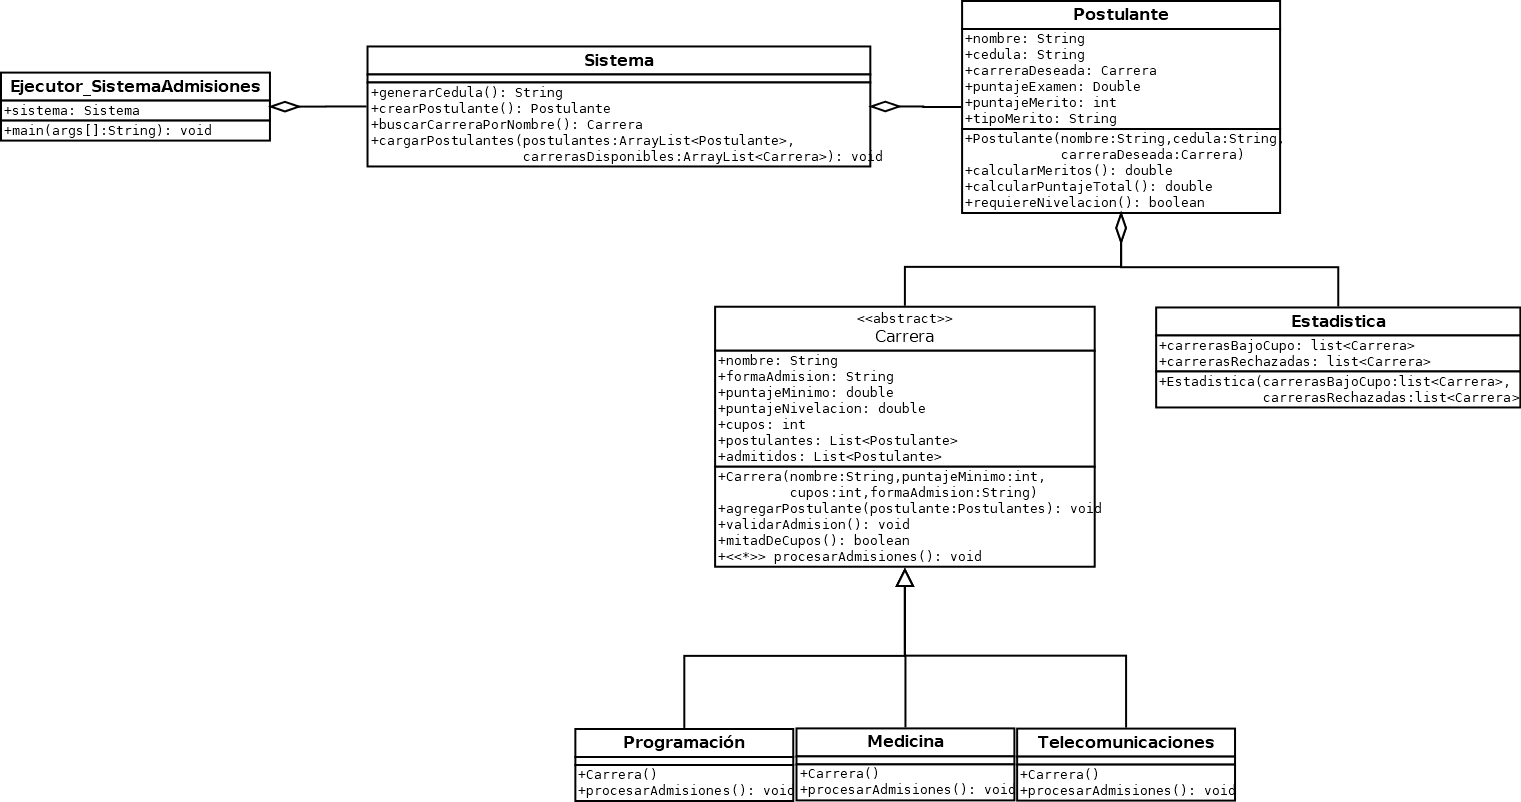
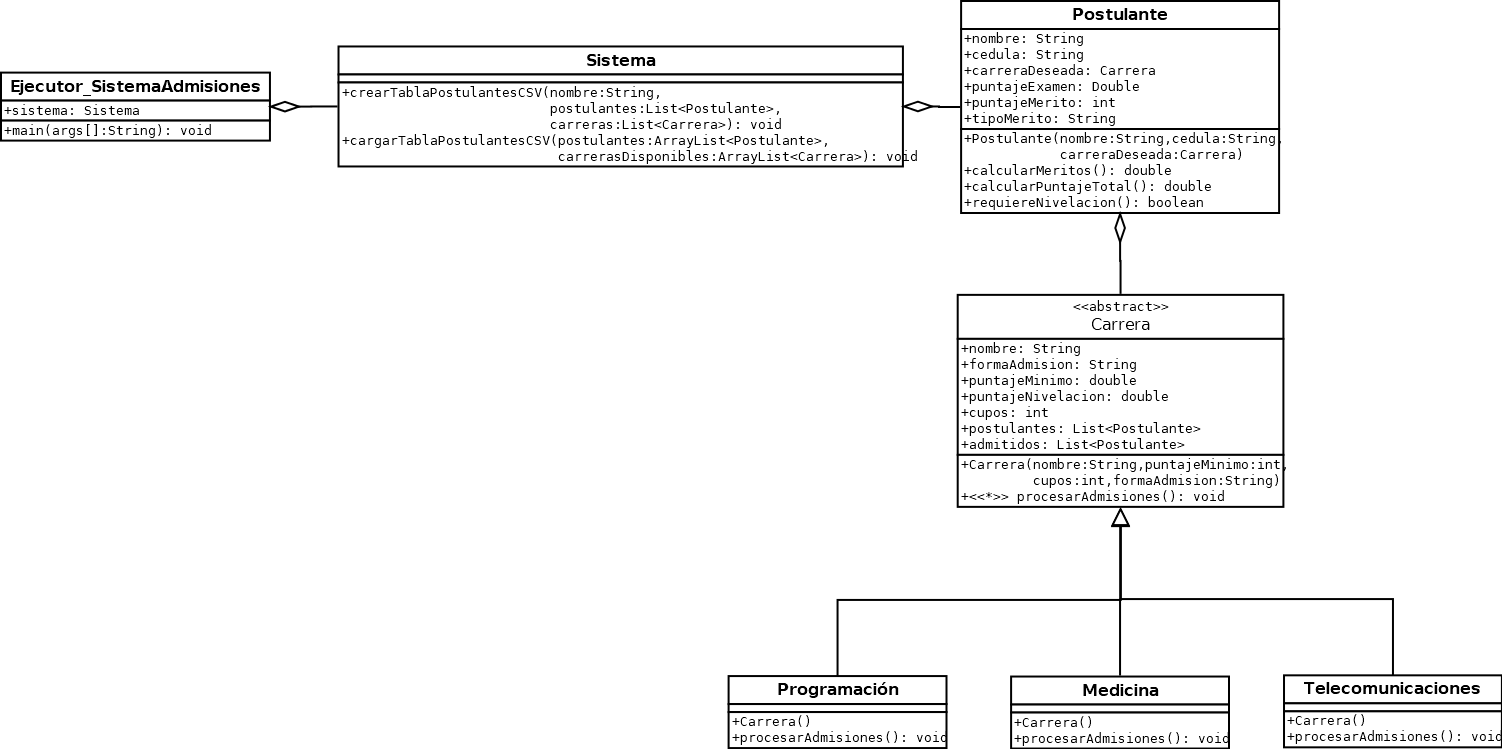
cambios finales

diff --git a/Solucion_Codigo/Poo_Proyecto_B2/src/main/java/POO_Proyecto_B2/Carrera.java b/Solucion_Codigo/Poo_Proyecto_B2/src/main/java/POO_Proyecto_B2/Carrera.java
@@ -21,23 +21,5 @@ public abstract class Carrera {
         this.puntajeNivelacion = puntajeMinimo * 0.3;
     }
 
-    public void agregarPostulante(Postulante postulante) {
-        postulantes.add(postulante);
-    }
-
-    public void validarAdmision() {
-        if (tipoAdmision.equalsIgnoreCase(TipoAdmision.ADMISION)) {
-            postulantes.removeIf(p -> p.calcularPuntajeTotal() < puntajeMinimo);
-        }
-        postulantes.sort((p1, p2) -> Double.compare(p2.calcularPuntajeTotal(), p1.calcularPuntajeTotal()));
-        for (int i = 0; i < Math.min(cupos, postulantes.size()); i++) {
-            admitidos.add(postulantes.get(i));
-        }
-    }
-
-    public boolean mitadDeCupos() {
-        return admitidos.size() >= (cupos / 2);
-    }
-
     public abstract void procesarAdmisiones();
 }

diff --git a/Solucion_Codigo/Poo_Proyecto_B2/src/main/java/POO_Proyecto_B2/Sistema.java b/Solucion_Codigo/Poo_Proyecto_B2/src/main/java/POO_Proyecto_B2/Sistema.java
@@ -10,19 +10,6 @@ import java.util.List;
 import java.util.UUID;
 
 public class Sistema {
-
-    public Carrera buscarCarreraPorNombre(String nombre) {
-        switch (nombre) {
-            case "Programación":
-                return new Programacion();
-            case "Medicina":
-                return new Medicina();
-            case "Telecomunicaciones":
-                return new Telecomunicaciones();
-            default:
-                return null;
-        }
-    }
  
     public void crearTablaPostulantesCSV(String nombre, List<Postulante> postulantes, List<Carrera> carreras) {
         try(FileWriter archivo = new FileWriter(new File(nombre))) {

diff --git a/Solucion_Codigo/Poo_Proyecto_B2/src/main/java/POO_Proyecto_B2/Ejecutor_SistemaAdmisiones.java b/Solucion_Codigo/Poo_Proyecto_B2/src/main/java/POO_Proyecto_B2/Ejecutor_SistemaAdmisiones.java
@@ -50,7 +50,6 @@ public class Ejecutor_SistemaAdmisiones {
             switch (sel) {
                 case 1 -> {
                     sistema.crearTablaPostulantesCSV("postulantes.csv", postulantes, carreras);
-
                 }
 
                 case 2 -> sistema.cargarPostulantesDesdeCSV("postulantes.csv", postulantes, carreras);
